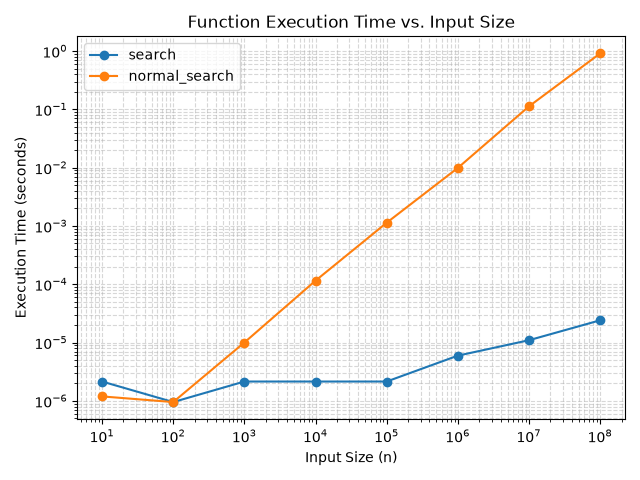
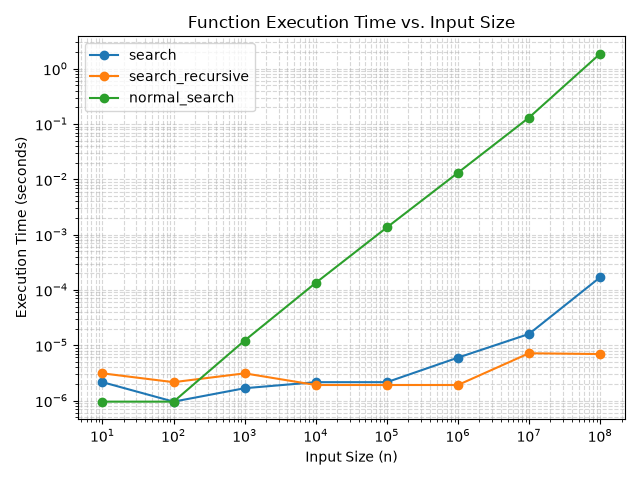
feat: recursive method and update evidence

Changed region(s): [[0.0312, 0.0312, 0.9688, 0.9688], [0.6875, 0.9062, 0.7188, 0.9375], [0.0312, 0.2812, 0.0625, 0.3125]]

diff --git a/binary_search/algorithm.py b/binary_search/algorithm.py
@@ -39,6 +39,45 @@ class BinarySearch:
                 high_index = mid_index - 1
 
         return None
+    
+    @staticmethod
+    @time_function_decorator_global
+    def search_recursive(list, target):
+        """
+        Perform a binary search on a sorted list to find the index of the target value.
+
+        Parameters:
+        list (list): A sorted list of elements to search.
+        target: The value to search for in the list.
+
+        Returns:
+        int: The index of the target value if found, otherwise -1.
+        """
+
+        list_size = len(list)
+
+        low_index = 0
+        high_index = list_size - 1
+
+        attempts = 0
+
+        def recursive_helper(low_index, high_index):
+            nonlocal attempts
+            attempts += 1
+            mid_index = (low_index + high_index) // 2
+
+            attempted_value = list[mid_index]
+
+            if attempted_value == target:
+                return mid_index
+            
+            if attempted_value > target:
+                return recursive_helper(low_index, mid_index-1)
+            
+            if attempted_value < target:
+                return recursive_helper(mid_index + 1, high_index)
+            
+        return recursive_helper(low_index, high_index)
 
 @time_function_decorator_global
 def normal_search(list, target):

diff --git a/binary_search/main.py b/binary_search/main.py
@@ -9,6 +9,7 @@ def main():
         data = Generator_Data.list_generator(size)
         target = size // 2
         BinarySearch.search(data, target)
+        BinarySearch.search_recursive(data, target)
         normal_search(data, target)
 
     plot_elapsed_times()